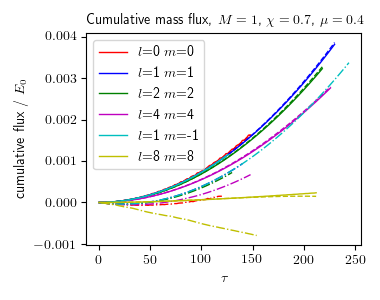
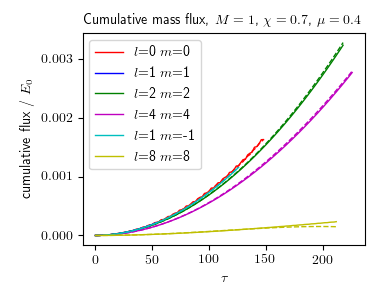
new plots

diff --git a/Analysis/scripts/plot_mass_flux_compare_lm.py b/Analysis/scripts/plot_mass_flux_compare_lm.py
@@ -132,7 +132,7 @@ R_min = 5
 R_max = 500
 average_time = False
 av_n = 1
-plot_mass=True
+plot_mass=False
 cumulative=True
 
 def load_flux_data():
